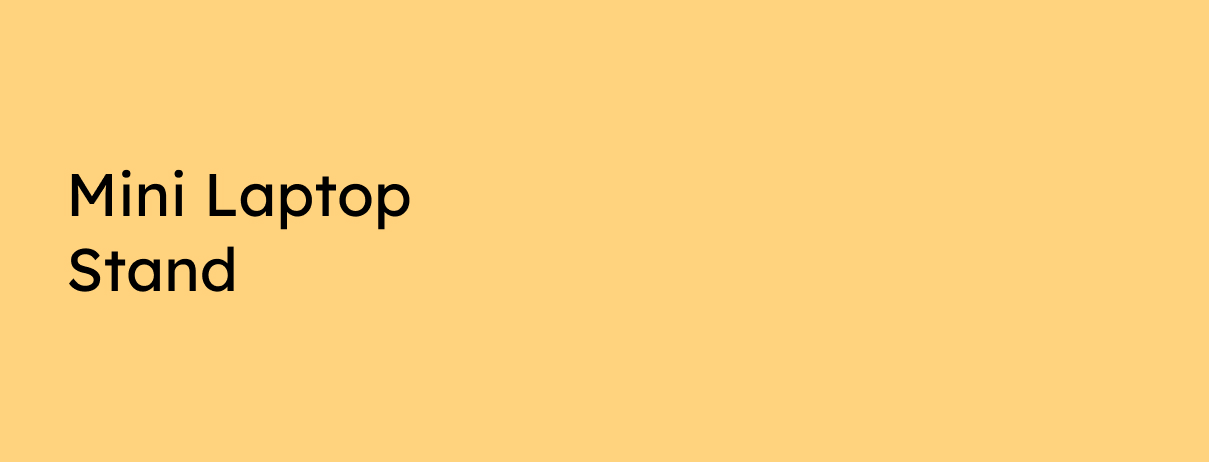
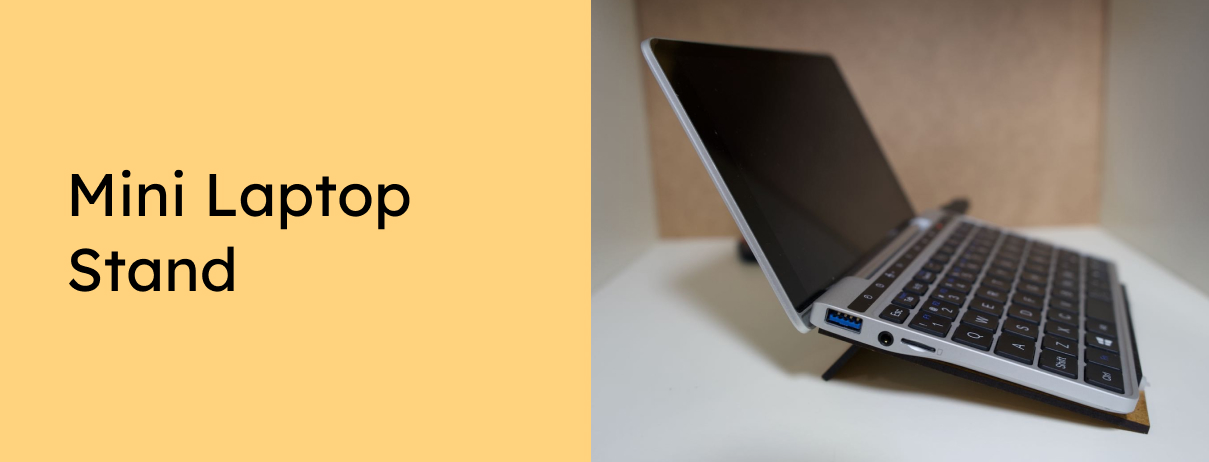
updated to version 2 with much better stability + added images

diff --git a/README.md b/README.md
@@ -7,4 +7,4 @@ Want to support the development and stay updated?
 <a href="https://www.patreon.com/bePatron?u=24983231"><img alt="Become a Patreon" src="images/patreon_button.svg"></a> <a href="https://liberapay.com/glowingkitty/donate"><img alt="Donate using Liberapay" src="https://liberapay.com/assets/widgets/donate.svg"></a>
 
 ## Instrutions
-Lasercut the mini_laptop_stand.svg two times on MDF plates and connect the two parts with two small cable binder.
+Lasercut the main.svg, top.svg and bottom.svg on MDF plates and connect the parts with small cable binder.
